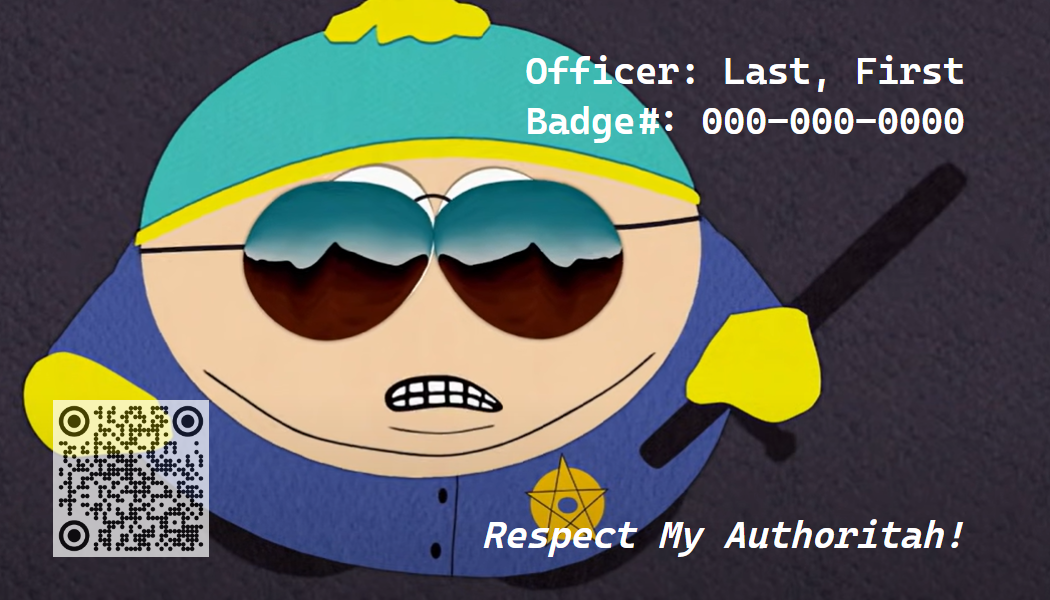
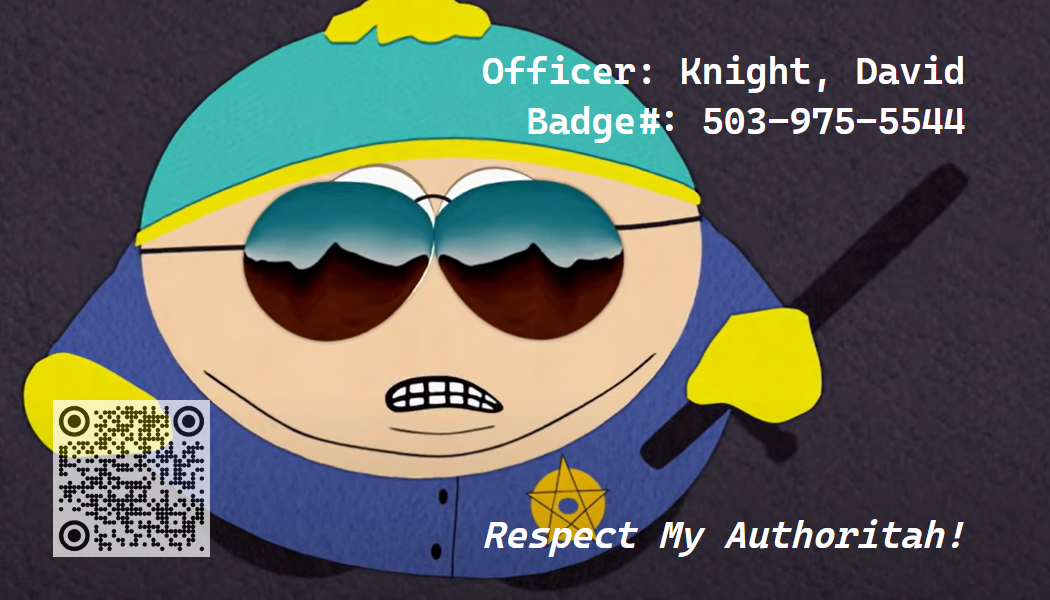
Recreate Cartman card.

diff --git a/CARDS/Cartman/Template.html b/CARDS/Cartman/Template.html
@@ -134,9 +134,9 @@
 
     <div id="Main" class="main">
         <div id="Inner" class="inner">&nbsp;</div>
-        <img src="../QRSample.png" class="qr" />
-        <div class="common name">Officer: Last, First</div>
-        <div class="common number">Badge#: 000-000-0000</div>
+        <img src="../../WEB/Cards/Cartman_Code.png" class="qr" />
+        <div class="common name">Officer: Knight, David</div>
+        <div class="common number">Badge#: 503-975-5544</div>
         <div class="common tag">Respect My Authoritah!</div>
 
     </div>

diff --git a/WEB/Cards.html b/WEB/Cards.html
@@ -25,7 +25,7 @@
         <h1>Greetings!</h1>
         <p>Hi, I'm <b>"Cartman."</b></p>
         <p>
-            Well, you scanned my card, so let me give you the pitch.
+            Well, you scanned my card, so let me give you the short pitch...
         </p>
         <p>
             If you like my card, you should consider getting some of your
